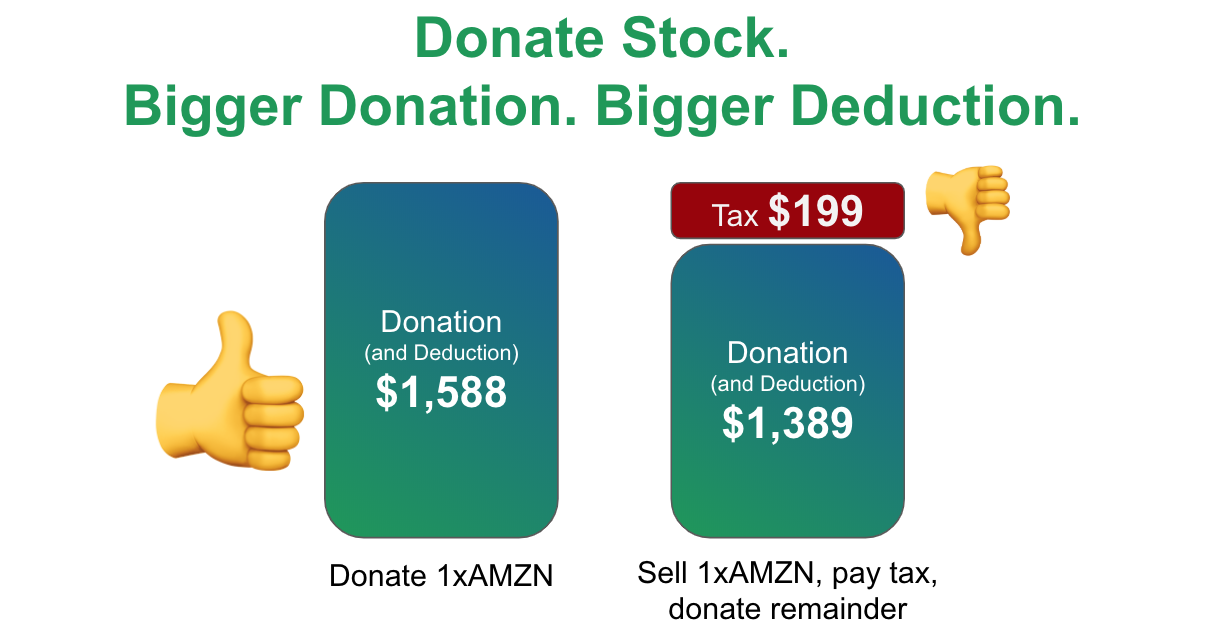
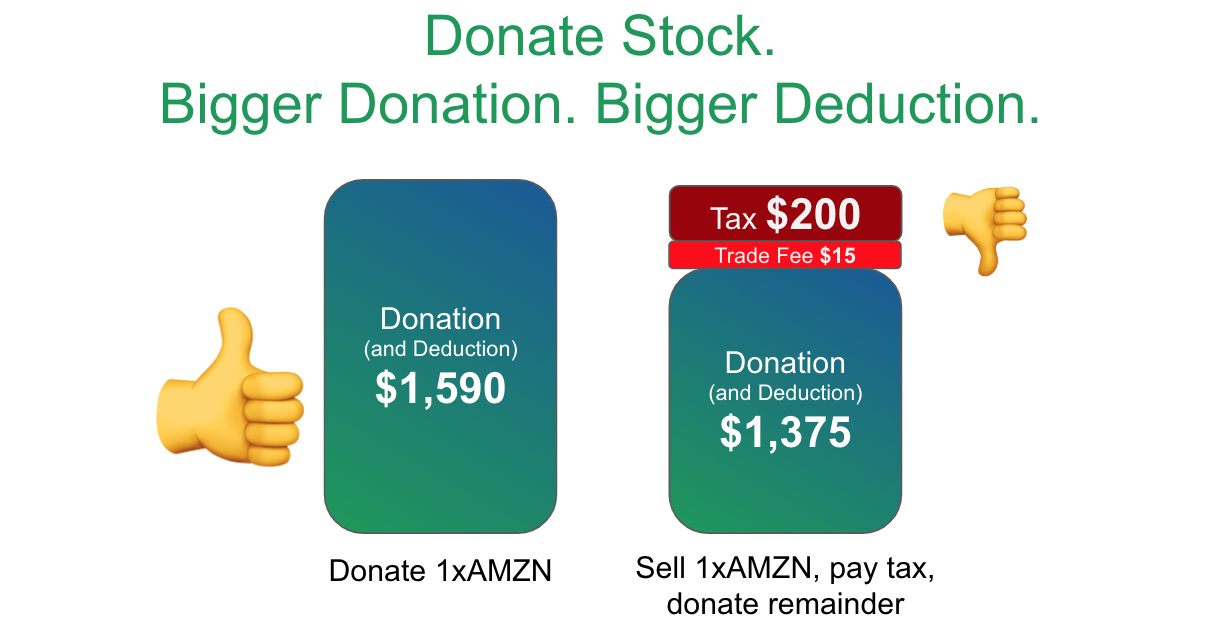
add trading fee to post; add about page and bio; other little things

diff --git a/_layouts/post.html b/_layouts/post.html
@@ -1,0 +1,28 @@
+---
+layout: default
+---
+<article class="post h-entry" itemscope itemtype="http://schema.org/BlogPosting">
+
+  <header class="post-header">
+    <h1 class="post-title p-name" itemprop="name headline">{{ page.title | escape }}</h1>
+    <p class="post-meta">
+      <time class="dt-published" datetime="{{ page.date | date_to_xmlschema }}" itemprop="datePublished">
+        {%- assign date_format = site.minima.date_format | default: "%b %-d, %Y" -%}
+        {{ page.date | date: date_format }}
+      </time>
+      {%- if page.author -%}
+        • <span itemprop="author" itemscope itemtype="http://schema.org/Person">
+            <span class="p-author h-card" itemprop="name">
+              <a href="/authors/{{ page.author-page }}">{{ page.author }}</a>
+            </span>
+          </span>
+      {%- endif -%}
+    </p>
+  </header>
+
+  <div class="post-content e-content" itemprop="articleBody">
+    {{ content }}
+  </div>
+
+  <a class="u-url" href="{{ page.url | relative_url }}" hidden></a>
+</article>

diff --git a/_layouts/default.html b/_layouts/default.html
@@ -127,10 +127,6 @@
       </div>
 
       <!--End mc_embed_signup-->
-
-      <a class="btn">For Investors</a>
-      <a class="btn">For Nonprofits</a>
-
     </header>
 
     <main id="content" class="main-content" role="main">

diff --git a/about.md b/about.md
@@ -1,18 +1,16 @@
 ---
 layout: page
-title: About
-permalink: /about/
+title: Authors
+permalink: /authors/brent-sullivan
 ---
 
-This is the base Jekyll theme. You can find out more info about customizing your Jekyll theme, as well as basic Jekyll usage documentation at [jekyllrb.com](https://jekyllrb.com/)
+Brent Sullivan
+---
 
-You can find the source code for Minima at GitHub:
-[jekyll][jekyll-organization] /
-[minima](https://github.com/jekyll/minima)
+<img src="/img/brent-sullivan.png" alt="A picture, actually my engagement photo, of Brent Sullivan, a nice fellow." height="150" width="150">
 
-You can find the source code for Jekyll at GitHub:
-[jekyll][jekyll-organization] /
-[jekyll](https://github.com/jekyll/jekyll)
+I worked in investment management at PIMCO, SNWAM, and Parametric for seven years before joining Zillow as a software developer. Before that, I studied statistics and financial engineering at Cornell University in Ithaca, NY and in NYC.
 
+Every year my wife and I donate stock. The benefits are numerous, but the process is tedious. In 2017, I built a widget to automate donating stock and now I'm making it a product others can use.
 
-[jekyll-organization]: https://github.com/jekyll
+Interested in collaborating, investing, or just having a chat? Send me an email: <brent@donatestock.io>
